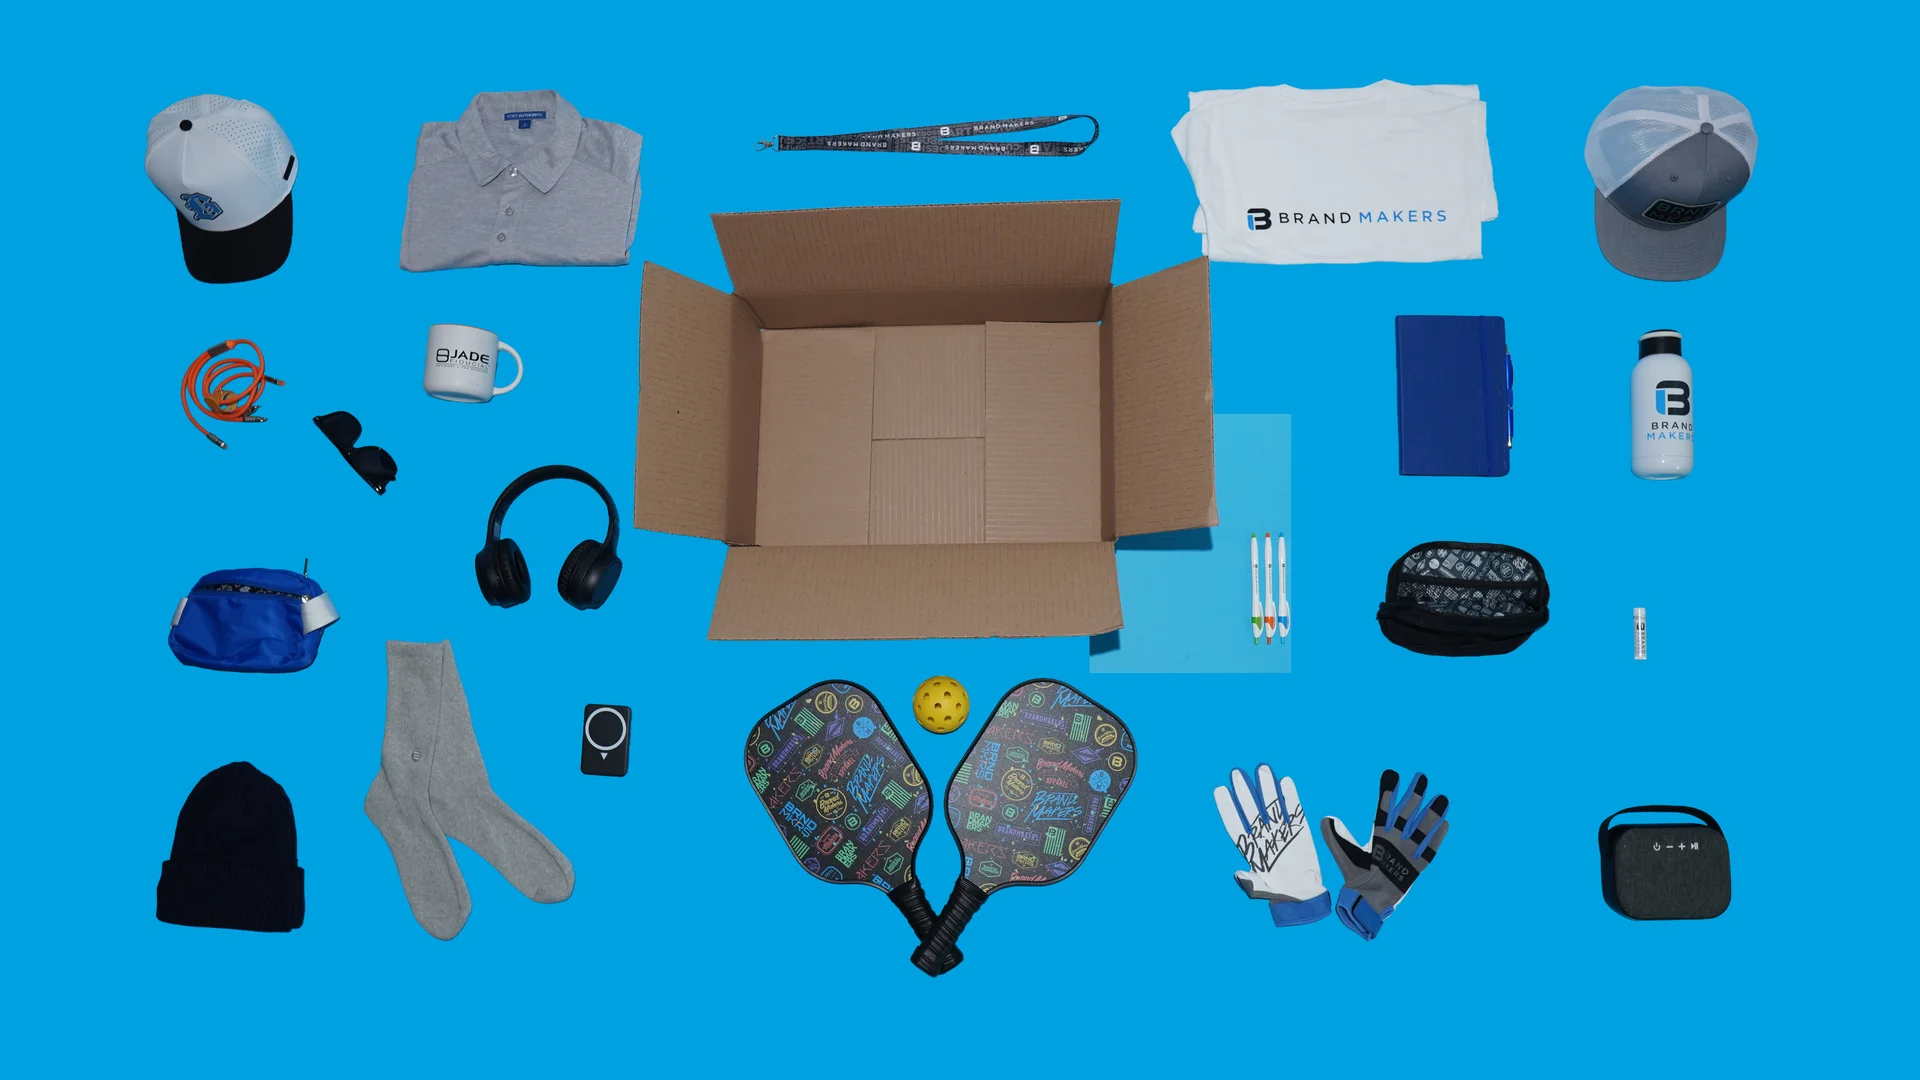
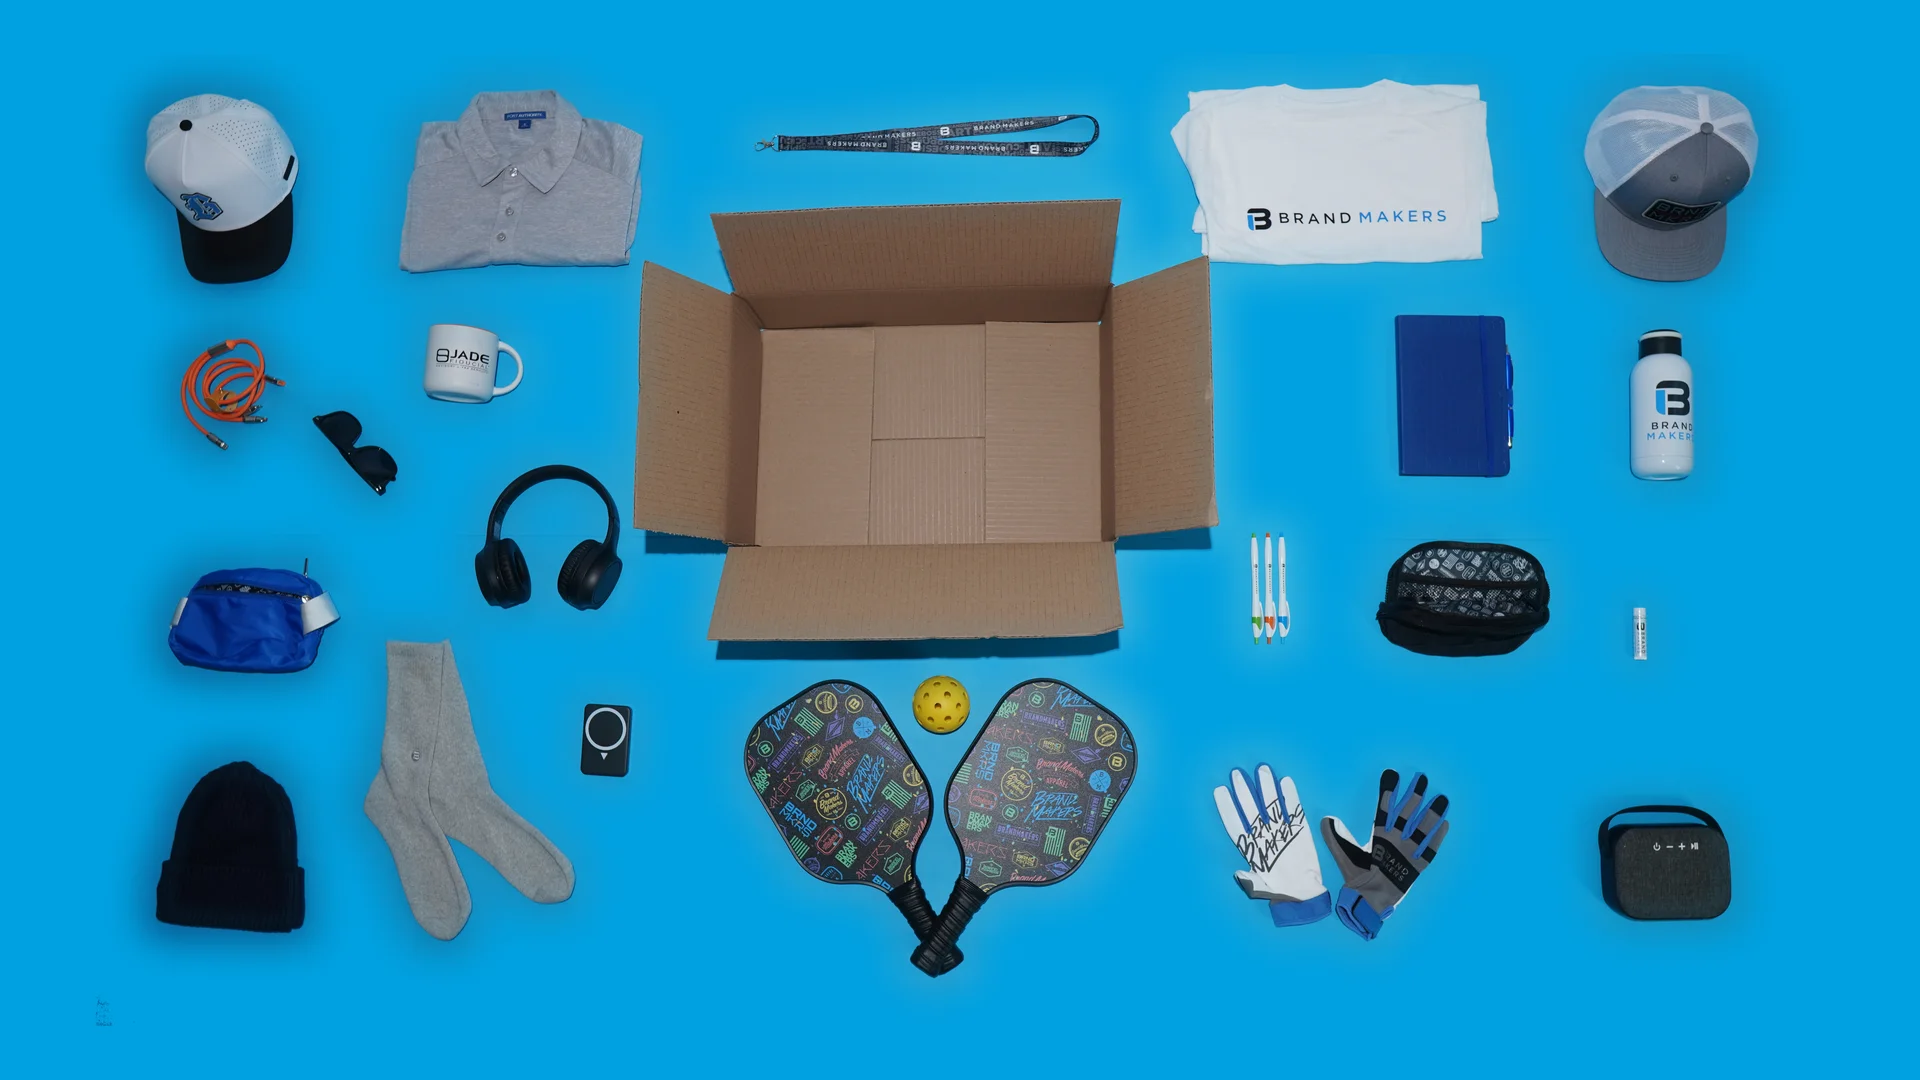
Take 1B: gentle bg removal preserving shadows + pens + tape, faster animation
- Generous mask dilation (101px) + feathering (60px) preserves object shadows
- Non-blue pixel detection keeps all items intact (pens, tape, labels)
- Background flattened to brand blue #00A1E1 with natural transitions
- 90% zoom-out with blue padding
- Frame rate bumped from 3fps to 8fps for snappier stop motion

diff --git a/components/hero2-frames.tsx b/components/hero2-frames.tsx
@@ -4,7 +4,7 @@ import { useEffect, useRef, useState } from "react";
 import { HeroTextOverlay } from "@/components/hero-text-overlay";
 
 const FRAME_COUNT = 72;
-const FRAME_RATE = 3;
+const FRAME_RATE = 8;
 const TEXT_START_PROGRESS = 0.86;
 const TITLE_HOLD_MS = 3000;
 const FRAME_DURATION_MS = 1000 / FRAME_RATE;
